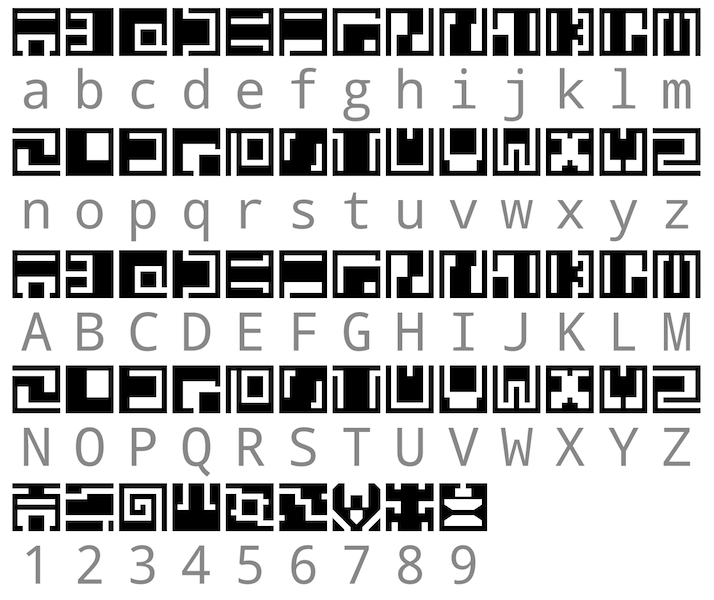
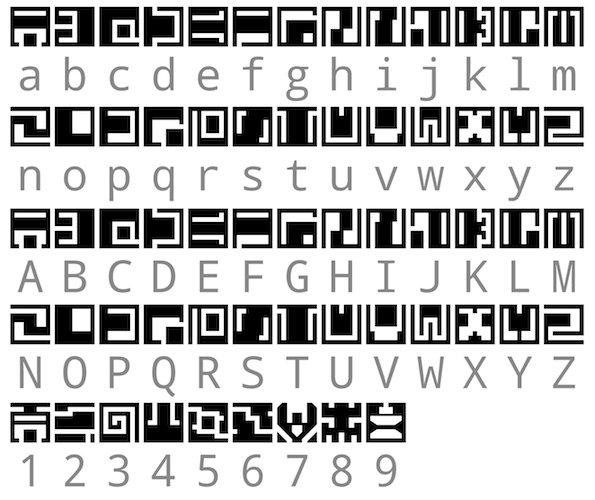
v2.3: okoto2016: fix 8 glyph, update font file credits, update documentation accordingly

diff --git a/README.md b/README.md
@@ -5,13 +5,10 @@ Some Bionicle fonts.
 
 To download all the fonts, visit [the latest release](https://github.com/MtMNC/Bionicle-Fonts/releases/latest) and choose your preferred download link. To pick and choose fonts, browse through the directories above, click the font file you want to download, then click "View Raw."
 
-__Latest version: v2.2.*__
+__Latest version: v2.3.*__
  * Okoto2016
-  * Redrew all symbols
-  * Fixed D, I, J, Q, and X glyphs
-  * Added Ekimu symbol as 9
-  * Switched around Umarak and Elemental Creatures symbols (now Elemental Creatures is 7 and Umarak is 8)
-  * Added credits to font file (in theory)
+  * Fix 8 glyph (Umarak symbol)
+  * Update font file credits
 
 Current fonts
 ---------
